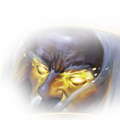
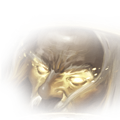
新卡

diff --git a/card/hearth.js b/card/hearth.js
@@ -2,6 +2,7 @@
 card.hearth={
 	card:{
 		jihuocard:{
+			fullskin:true,
 			type:'basic',
 			enable:true,
 			filterTarget:function(card,player,target){
@@ -22,6 +23,7 @@ card.hearth={
 			}
 		},
 		zhaomingdan:{
+			fullskin:true,
 			type:'trick',
 			chongzhu:true,
 			enable:function(card,player){
@@ -35,6 +37,7 @@ card.hearth={
 			},
 			content:function(){
 				target.discard(target.get('j'));
+				player.draw();
 			},
 			ai:{
 				order:9.5,
@@ -46,7 +49,7 @@ card.hearth={
 						for(var i=0;i<js.length;i++){
 							var jj=js[i].viewAs?{name:js[i].viewAs}:js[i];
 							if(jj.name=='zhaomingdan') num++;
-							else if(js.length==1&&ai.get.effect(target,jj,target,player)>=0){
+							else if(js.length==1&&ai.get.effect(target,jj,target,target)>=0){
 								num--;
 							}
 							else{
@@ -58,7 +61,8 @@ card.hearth={
 				}
 			}
 		},
-		yexinglanghun:{
+		shijieshu:{
+			fullskin:true,
 			enable:true,
 			type:'trick',
 			filterTarget:function(card,player,target){
@@ -121,6 +125,7 @@ card.hearth={
 			}
 		},
 		shandianjian:{
+			fullskin:true,
 			type:'trick',
 			enable:true,
 			filterTarget:function(card,player,target){
@@ -207,6 +212,7 @@ card.hearth={
 			}
 		},
 		shihuawuqi:{
+			fullskin:true,
 			type:'basic',
 			enable:true,
 			usable:1,
@@ -265,6 +271,7 @@ card.hearth={
 			}
 		},
 		dunpaigedang:{
+			fullskin:true,
 			enable:true,
 			type:'trick',
 			filterTarget:function(card,player,target){
@@ -285,6 +292,7 @@ card.hearth={
 			}
 		},
 		chuansongmen:{
+			fullskin:true,
 			type:'basic',
 			enable:true,
 			discard:false,
@@ -321,13 +329,14 @@ card.hearth={
 			ai:{
 				order:9.5,
 				value:7,
-				useful:2,
+				useful:3,
 				result:{
 					target:1
 				}
 			}
 		},
 		tanshezhiren:{
+			fullskin:true,
 			type:'trick',
 			enable:function(){
 				for(var i=0;i<game.players.length;i++){
@@ -373,6 +382,7 @@ card.hearth={
 			}
 		},
 		xingjiegoutong:{
+			fullskin:true,
 			type:'basic',
 			enable:true,
 			selectTarget:-1,
@@ -411,7 +421,7 @@ card.hearth={
 			content:function(){
 				var num=player.num('h')-target.num('h');
 				if(num<1) num=1;
-				if(num>5) num=5;
+				if(num>4) num=4;
 				target.draw(num);
 			},
 			ai:{
@@ -431,6 +441,7 @@ card.hearth={
 			}
         },
 		zhiliaobo:{
+			fullskin:true,
 			enable:true,
 			usable:1,
 			filterTarget:function(card,player,target){
@@ -470,6 +481,7 @@ card.hearth={
 			}
 		},
 		yuansuhuimie:{
+			fullskin:true,
 			type:'trick',
 			enable:true,
 			selectTarget:-1,
@@ -534,7 +546,7 @@ card.hearth={
 		shihuawuqi:{
 			mod:{
 				attackFrom:function(from,to,distance){
-					return distance-2;
+					return distance-1;
 				}
 			}
 		},
@@ -542,7 +554,7 @@ card.hearth={
 	},
 	translate:{
 		shenenshu:'神恩术',
-		shenenshu_info:'对一名其他角色使用，令其摸X张牌，直到手牌数与你相等（X不小于1且不大于5）',
+		shenenshu_info:'对一名其他角色使用，令其摸X张牌，直到手牌数与你相等（X不小于1且不大于4）',
 		zhiliaobo:'治疗波',
 		zhiliaobo_info:'对一名受伤角色使用，令其回复一点体力，若其仍处于受伤状态，则进行一次判定，若结果为红色则再回复一点体力',
 		yuansuhuimie:'元素毁灭',
@@ -556,15 +568,15 @@ card.hearth={
 		dunpaigedang:'盾牌格挡',
 		dunpaigedang_info:'获得一点护甲值，摸一张牌',
 		siwangchanrao:'死亡缠绕',
-		siwangchanrao_info:'弃置一名其他角色的一张手牌，若其此时没有手牌，则你摸一张牌',
+		siwangchanrao_infox:'弃置一名其他角色的一张手牌，若其此时没有手牌，则你摸一张牌',
 		shihuawuqi:'石化武器',
-		shihuawuqi_info:'本回合内攻击范围+2；若你手牌中没有杀，则从牌堆中获得一张杀',
+		shihuawuqi_infox:'本回合内攻击范围+1；若你手牌中没有杀，则从牌堆中获得一张杀',
 		shandianjian:'闪电箭',
 		shandianjian_info:'目标角色展示一张手牌，然后若你能弃掉一张与所展示牌相同花色的手牌，则对该角色造成1点雷电伤害。',
-		yexinglanghun:'野性狼魂',
-		yexinglanghun_info:'目标随机装备牌堆中的两张装备牌，使用者随机弃置一张手牌',
+		shijieshu:'视界术',
+		shijieshu_info:'目标随机装备牌堆中的两张装备牌，使用者随机弃置一张手牌',
 		zhaomingdan:'照明弹',
-		zhaomingdan_info:'弃置一名其他角色判定区内的所有牌',
+		zhaomingdan_info:'弃置一名其他角色判定区内的所有牌，然后摸一张牌',
 		jihuocard:'激活',
 		jihuocard_info:'跳过本回合的弃牌阶段，若你手牌数不大于当前体力值，则摸一张牌',
 	},
@@ -579,12 +591,9 @@ card.hearth={
 		['diamond',2,'chuansongmen'],
 		['heart',2,'chuansongmen'],
 		['club',3,'dunpaigedang'],
-		['club',1,'siwangchanrao'],
-		['club',3,'shihuawuqi'],
-		['spade',10,'shihuawuqi'],
-		['club',3,'shandianjian'],
-		['spade',1,'shandianjian'],
-		['spade',7,'yexinglanghun'],
+		['club',3,'shandianjian','thunder'],
+		['spade',1,'shandianjian','thunder'],
+		['spade',7,'shijieshu'],
 		['diamond',5,'zhaomingdan'],
 		['heart',10,'zhaomingdan'],
 		['diamond',2,'jihuocard'],

diff --git a/card/swd.js b/card/swd.js
@@ -369,7 +369,7 @@ card.swd={
 		zhufangshenshi:{
 			fullskin:true,
 			chongzhu:true,
-			type:'basic',
+			type:'trick',
 			enable:function(){
 				return game.players.length>2;
 			},
